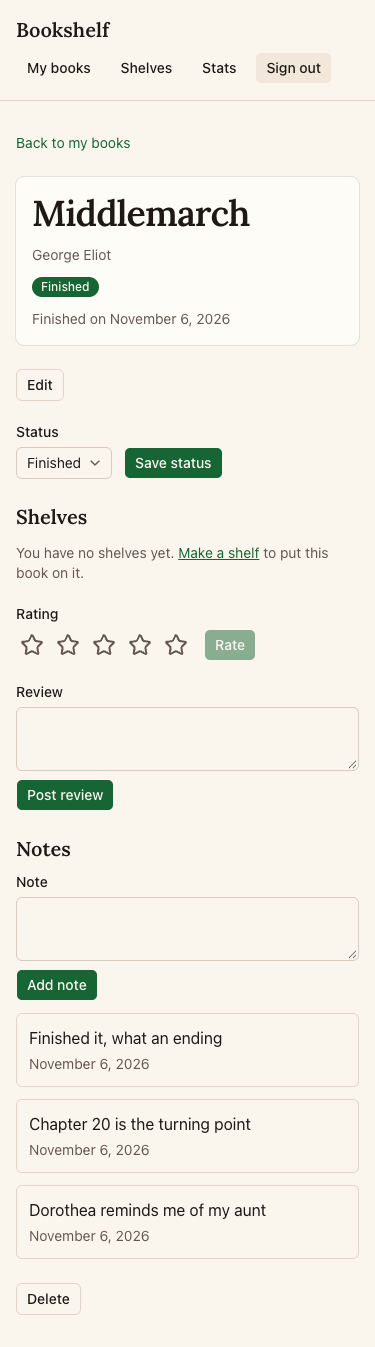
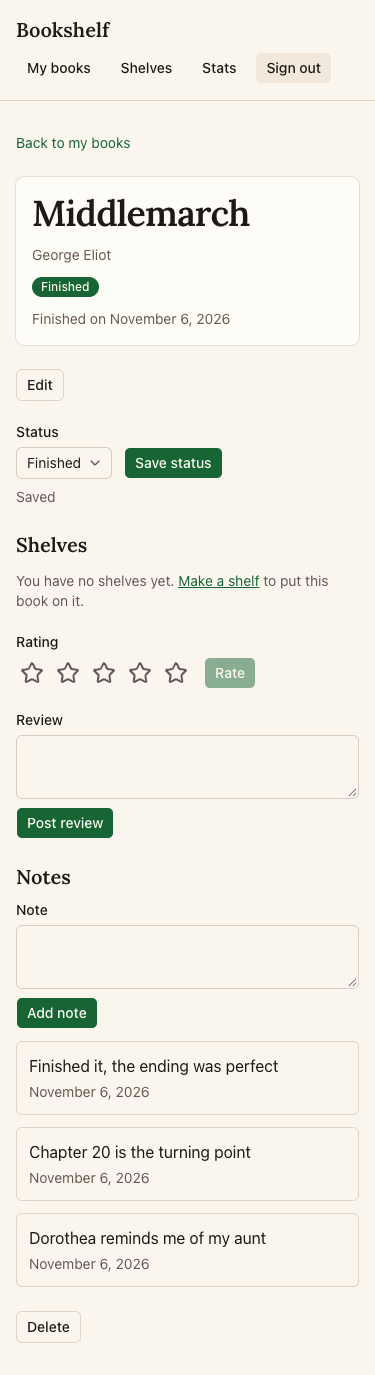
chore(F040): re-verify after CI runner loss, add session log

diff --git a/harness/evidence/F040.md b/harness/evidence/F040.md
@@ -1,21 +1,23 @@
 <!-- written by harness/hooks/verifier-evidence.py; do not edit -->
-- Verified at: 2026-11-06T12:05:07 on 494d68d plus working tree
-- Verifier run: affd7d373eefddd9e
+- Verified at: 2026-11-06T14:45:41 on 8d0dee7 plus working tree
+- Verifier run: ae22c55cffd2fcb24
 
 VERDICT: PASS
 FEATURE: F040
 CRITERIA:
-- CRITERION 1: PASS — I signed up a fresh account (qa-f040-1793941430582@example.com) and added 'Middlemarch'. Its page /books/85a831f0-... has a "Notes" region with a "Note" text field, an "Add note" button and the text "This book has no notes yet."
-- CRITERION 2: PASS — After I typed 'Dorothea reminds me of my aunt' and clicked Add note, the note showed with "November 6, 2026" (today) and the field was empty again; after a reload the note was still there.
-- CRITERION 3: PASS — After I added 'Chapter 20 is the turning point', the list order was [Chapter 20..., Dorothea...], so the new note is on top.
-- CRITERION 4: PASS — I changed the status to Finished and saved (the Review field appeared), then added 'Finished it, what an ending'. It showed first of three notes, before and after a reload, and the status stayed Finished.
+- CRITERION 1: PASS — I signed up a new account, added Middlemarch and opened /books/d06a3289-3258-4792-a7fa-4a7ca4b65d91. A "Notes" section showed "This book has no notes yet.", a textbox labelled "Note" and an "Add note" button.
+- CRITERION 2: PASS — After I typed "Dorothea reminds me of my aunt" and clicked Add note, the note showed with "November 6, 2026", the field was empty, and both were the same after a full reload.
+- CRITERION 3: PASS — I added "Chapter 20 is the turning point" and it showed first in the list, above the Dorothea note.
+- CRITERION 4: PASS — After I changed the status to Finished and clicked "Save status", the badge read Finished and the Review field appeared. A third note, "Finished it, the ending was perfect", then showed at the top, with the field empty again.
 EVIDENCE:
-- Step 1: Notes section shows the empty-state text, the Note field and the Add note button (/Users/huynguyen/Desktop/harness-web-trial-loop/F040/harness/evidence/F040/step-01.png)
-- Step 2: One note with today's date, field empty, still there after reload (/Users/huynguyen/Desktop/harness-web-trial-loop/F040/harness/evidence/F040/step-02.png)
-- Step 3: Two notes, newest on top (/Users/huynguyen/Desktop/harness-web-trial-loop/F040/harness/evidence/F040/step-03.png)
-- Step 4: Status is Finished and three notes show, the third at the top (/Users/huynguyen/Desktop/harness-web-trial-loop/F040/harness/evidence/F040/step-04.png). Mobile at 375x812: the layout fits with no overflow (/Users/huynguyen/Desktop/harness-web-trial-loop/F040/harness/evidence/F040/step-04-mobile.png)
-- Edge case, empty input: clicking Add note with an empty field shows "Note is required" and saves no note.
-- Edge case, owner check: a second fresh account opening the same /books/<id> URL gets HTTP 404 ("Book not found"), and no note text appears.
-- Console: 0 errors and 0 warnings for the whole flow. The server log shows no errors; its only error-like line is the expected validation result of the empty-note submit.
-- Test coverage: /Users/huynguyen/Desktop/harness-web-trial-loop/F040/e2e/notes-add.spec.ts covers all four criteria, and /Users/huynguyen/Desktop/harness-web-trial-loop/F040/lib/notes.test.ts exists. I did not run either; I checked coverage by reading them.
+- Step 1: The Notes region contained heading "Notes", textbox "Note", button "Add note" and the text "This book has no notes yet." (/Users/huynguyen/Desktop/harness-web-trial-loop/F040/harness/evidence/F040/step-01.png)
+- Step 2: The list read ["Dorothea reminds me of my aunt / November 6, 2026"] and the field value was "". After reload: the same list, the field still "", and the empty-state text gone. (/Users/huynguyen/Desktop/harness-web-trial-loop/F040/harness/evidence/F040/step-02.png)
+- Step 3: The list read ["Chapter 20 is the turning point / November 6, 2026", "Dorothea reminds me of my aunt / November 6, 2026"]. (/Users/huynguyen/Desktop/harness-web-trial-loop/F040/harness/evidence/F040/step-03.png)
+- Step 4: The badge read "Finished" with "Finished on November 6, 2026". The list read ["Finished it, the ending was perfect", "Chapter 20 is the turning point", "Dorothea reminds me of my aunt"], all dated November 6, 2026. (/Users/huynguyen/Desktop/harness-web-trial-loop/F040/harness/evidence/F040/step-04.png)
+- Mobile 375x812: the Notes section stacks cleanly and nothing overflows. (/Users/huynguyen/Desktop/harness-web-trial-loop/F040/harness/evidence/F040/step-04-mobile.png)
+- Edge case, empty input: clicking Add note with nothing typed showed the alert "Note is required", marked the field aria-invalid and saved no note.
+- Owner check: a second fresh account opening the same book URL got HTTP 404, "Book not found", and none of the note text.
+- Errors: 0 console errors or warnings during the flow. The server log shows only 200 POSTs from addNote and updateStatus, with no errors.
+- Test coverage: /Users/huynguyen/Desktop/harness-web-trial-loop/F040/e2e/notes-add.spec.ts covers all four criteria, plus an accessibility check and a visual snapshot.
 PROBLEMS:
+- None blocking. For your information: note dates are formatted in UTC (formatNoteDate in /Users/huynguyen/Desktop/harness-web-trial-loop/F040/lib/notes.ts), the same way finished_on is shown. A user at UTC+7 who writes a note before 07:00 local time will see the previous day's date. That matches how the app already shows dates, but "today's date" in criterion 2 only holds in UTC.

diff --git a/harness/log/F040.md b/harness/log/F040.md
@@ -1,0 +1,7 @@
+# F040: Write notes on a book from its page
+
+## 2026-11-06 (CI fix session)
+- CI failure on PR #113 was infrastructure, not code: "The self-hosted runner lost communication with the server" during `./scripts/check.sh`; the job log was never uploaded.
+- No code change needed: `./scripts/check.sh` passes locally (lint, typecheck, 45/45 e2e).
+- Verifier re-run: PASS on all four criteria (evidence refreshed). Status stays `passing`.
+- Note from verifier: note dates format in UTC, like `finished_on`; users far from UTC can see the previous day's date.
